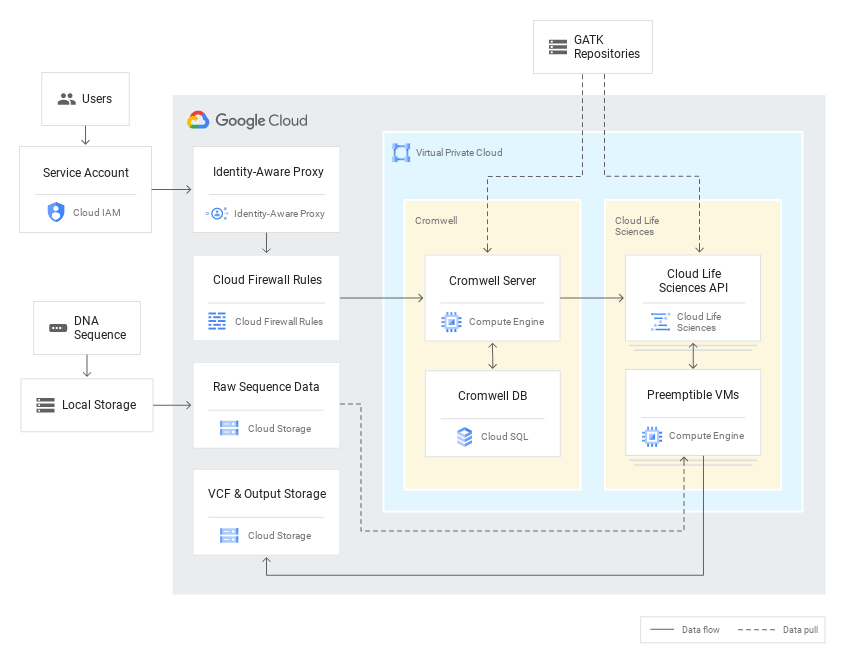
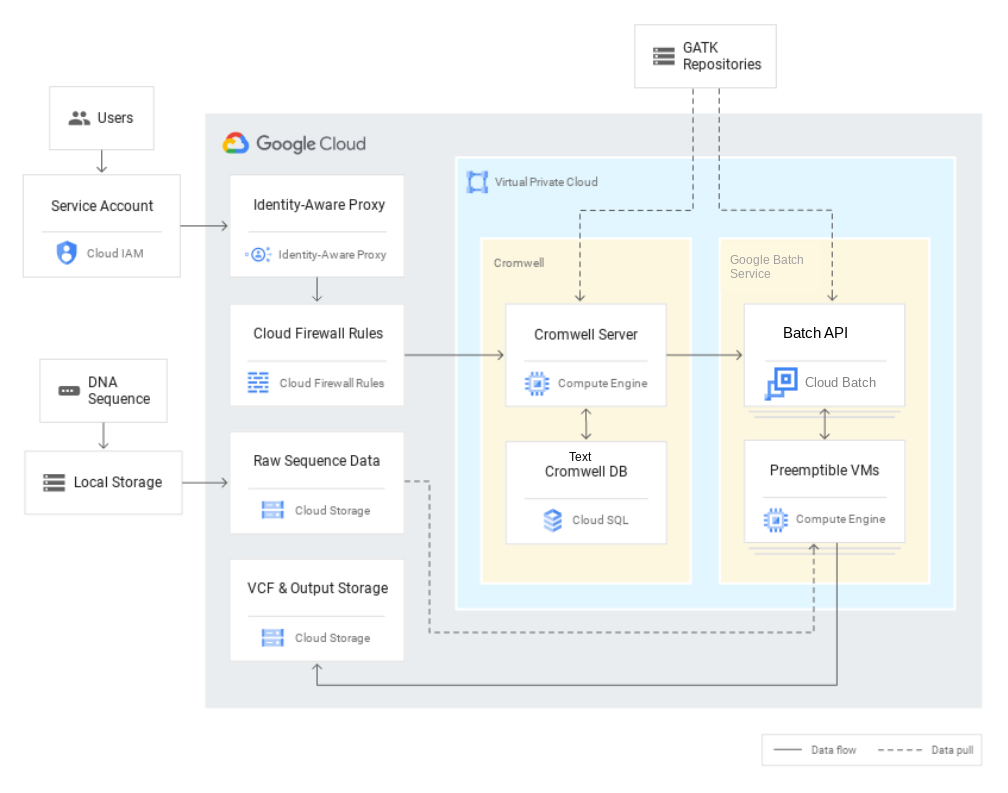
Update Readme, Enable Batch API and update IAM permissions

diff --git a/modules/genomics_cromwell/README.md b/modules/genomics_cromwell/README.md
@@ -23,7 +23,7 @@ You can start an IAP tunnel on your local device from the terminal and then from
 
 ## GCP Products/Services 
 
-* Life Sciences API
+* Batch API
 * Cloud Compute
 * CloudSQL
 * Cloud Storage
@@ -95,16 +95,15 @@ _Usage:_
 | *create_budget* | If the budget should be created | <code title="">bool</code> |  | <code title="">false</code> |
 | *create_network* | If the module has to be deployed in an existing network, set this variable to false | <code title="">bool</code> |  | <code title="">true</code> |
 | *create_project* | Set to true if the module has to create a project.  If you want to deploy in an existing project, set this variable to false | <code title="">bool</code> |  | <code title="">true</code> |
-| *cromwell_PAPI_endpoint* | Endpoint for Life Sciences APIs. For locations other than us-central1, the endpoint needs to be updated to match the location For example for \"europe-west4\" location the endpoint-url should be \"https://europe-west4-lifesciences.googleapi/\" | <code title="">string</code> |  | <code title="">https://lifesciences.googleapis.com</code> |
-| *cromwell_PAPI_location* | Google Cloud region or multi-region where the Life Sciences API endpoint will be used. This does not affect where worker instances or data will be stored | <code title="">string</code> |  | <code title="">us-central1</code> |
+| *cromwell_batch_location* | Google Cloud region where the Batch API endpoint will be used. This does not affect where worker instances or data will be stored | <code title="">string</code> |  | <code title="">us-central1</code> |
 | *cromwell_db_name* | The name of the SQL Database instance | <code title="">string</code> |  | <code title="">cromwelldb</code> |
 | *cromwell_db_tier* | CloudSQL tier, please refere to the documentation at https://cloud.google.com/sql/docs/mysql/instance-settings#machine-type-2ndgen | <code title="">string</code> |  | <code title="">db-n1-standard-2</code> |
 | *cromwell_port* | Port Cromwell server will use for the REST API and web user interface | <code title="">string</code> |  | <code title="">8000</code> |
 | *cromwell_sa_roles* | List of roles granted to the cromwell service account. This server account will be used to run both the Cromwell server and workers as well | <code title="list&#40;any&#41;">list(any)</code> |  | <code title="">["roles/lifesciences.workflowsRunner", "roles/serviceusage.serviceUsageConsumer", "roles/storage.objectAdmin", "roles/cloudsql.client", "roles/browser"]</code> |
 | *cromwell_server_instance_name* | Name of the VM instance that will be used to deploy Cromwell Server, this should be a valid Google Cloud instance name | <code title="">string</code> |  | <code title="">cromwell-server</code> |
 | *cromwell_server_instance_type* | Cromwell server instance type | <code title="">string</code> |  | <code title="">e2-standard-4</code> |
-| *cromwell_version* | Cromwell version that will be downloaded, for the latest release version, please check https://github.com/broadinstitute/cromwell/releases for the latest releases | <code title="">string</code> |  | <code title="">72</code> |
-| *cromwell_zones* | GCP Zones that will be set as the default runtime in Cromwell config file | <code title="list&#40;any&#41;">list(any)</code> |  | <code title="">["us-central1-a", "us-central1-b"]</code> |
+| *cromwell_version* | Cromwell version that will be downloaded, for the latest release version, please check https://github.com/broadinstitute/cromwell/releases for the latest releases | <code title="">string</code> |  | <code title="">86</code> |
+| *cromwell_zones* | GCP Zones that will be set as the default runtime in Cromwell config file | <code title="list&#40;any&#41;">list(any)</code> |  | <code title="">["us-central1-a"]</code> |
 | *db_service_network_cidr_range* | CIDR range used for the private service range for CloudSQL | <code title="">string</code> |  | <code title="">10.128.50.0/24</code> |
 | *deployment_id* | Adds a suffix of 4 random characters to the `project_id` | <code title="">string</code> |  | <code title="">null</code> |
 | *enable_services* | Enable the necessary APIs on the project.  When using an existing project, this can be set to false | <code title="">bool</code> |  | <code title="">true</code> |
